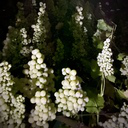
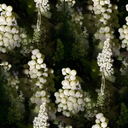
update
keleidoscope: typo fixed, some images seamlessed;
archive/questions: questions updated, counter added.

diff --git a/archive/november2021/questions/script.js b/archive/november2021/questions/script.js
@@ -11,6 +11,7 @@ function askTopic(topic) {
 	}
 	let n = Math.floor(Math.random() * topic.notAsked.length);
 	askQuestion(topic.notAsked.splice(n, 1)[0]);
+	document.getElementById("counter").textContent = topic.notAsked.length;
 }
 
 function appendButton(containerId, name, func) {
@@ -23,9 +24,11 @@ function appendButton(containerId, name, func) {
 function addDiscipline(discipline) {
 	let disciplineName = discipline.name;
 	delete discipline.name;
-	
+
 	appendButton("disciplines", disciplineName, () => {
+		document.getElementById("question").textContent = "А расскажи-ка про...";
 		document.getElementById("themes-section").innerHTML = "";
+		document.getElementById("counter").textContent = "-";
 		for (const [name, questions] of Object.entries(discipline)) {
 			let topic = {
 				questions: questions,
@@ -37,13 +40,15 @@ function addDiscipline(discipline) {
 }
 
 document.addEventListener("DOMContentLoaded", async function() {
+	// time added to prevent caching https://stackoverflow.com/questions/15041603
+	const appendix = "?nocache=" + (new Date()).getTime();
 	// Получение файла со списком путей к файлам с вопросами.
-	let disciplinesFile = await fetch("./disciplines.json");
+	let disciplinesFile = await fetch("./disciplines.json" + appendix);
 	if (disciplinesFile.ok) {
 		// Чтение каждого адреса из файла
 		for (let url of await disciplinesFile.json()) {
 			// Чтение файлов с вопросами
-			let topicsFile = await fetch(url);
+			let topicsFile = await fetch(url + appendix);
 			if (topicsFile.ok) {
 				addDiscipline(await topicsFile.json());
 			}

diff --git a/oeuvres/kaleidoscope/index.html b/oeuvres/kaleidoscope/index.html
@@ -75,7 +75,7 @@
 				<button data-image="./images/img1.png">Powehi</button>
 				<button data-image="./images/img2.png">Pastel Stuff</button>
 				<button data-image="./images/img3.png">Дерево</button>
-				<button data-image="./images/img4.png">Магналинна</button>
+				<button data-image="./images/img4.png">Магнапинна</button>
 				<button data-image="./images/img5.png">Луна</button>
 				<button data-image="./images/img6.png">Виноград</button>
 				<button data-image="./images/img7.png">Дорога</button>

diff --git a/archive/november2021/questions/index.html b/archive/november2021/questions/index.html
@@ -14,7 +14,11 @@
 		<main>
 			<section id="disciplines"></section>
 			<section id="question-section">
-				<div id="question">А расскажи-ка про...</div>
+				<div id="question">Загрузка...</div>
+			</section>
+			<section id="counter-section">
+				<span>Тем осталось:</span>
+				<span id="counter">-</span>
 			</section>
 			<section id="themes-section"></section>
 		</main>

diff --git a/archive/november2021/questions/style.css b/archive/november2021/questions/style.css
@@ -40,3 +40,7 @@
 #themes-section button {
 	margin: 0.5em;
 }
+
+#counter-section {
+	color: #b8aba8;
+}
